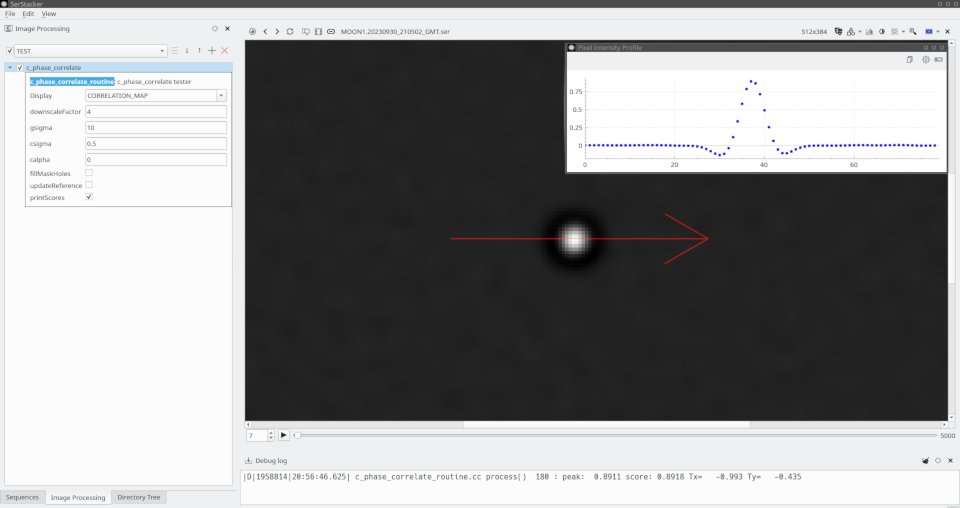
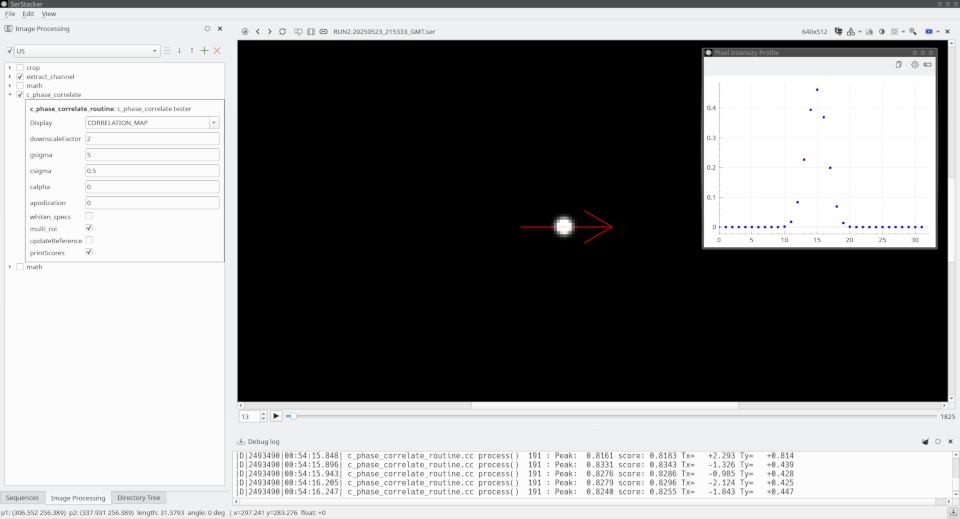
Update PHASE_CORRELATE.md

diff --git a/core/proc/image_registration/c_phase_correlate.cc b/core/proc/image_registration/c_phase_correlate.cc
@@ -497,7 +497,6 @@ double c_phase_correlate::compute(cv::Vec2f & outputTranslation)
   else {
     cv::Mat1f cSpec, cMap;
 
-
     for( size_t i = 0; i < 4; ++i ) {
 
       crossEnergyScale =
@@ -598,7 +597,7 @@ double c_phase_correlate::findSubpixelCentroid(const cv::Mat1f& correlationMap, 
     }
   }
   else {
-    const double threshold = z_center * 0.05f;
+    const double threshold = z_center * 0.02f;
     for (int dy = -R; dy <= R; ++dy) {
       const float * __restrict srcp = (const float *)(src_base + dy * stride);
       for (int dx = -R; dx <= R; ++dx) {

diff --git a/PHASE_CORRELATE.md b/PHASE_CORRELATE.md
@@ -2,90 +2,135 @@
 
 `#include <core/proc/image_registration/c_phase_correlate.h>`
 
-The `c_phase_correlate` is a high-performance C++ class designed for fast sub-pixel translation alignment of shifted video frames under strict execution budgets. It is tailored specifically for **Lucky Imaging Stacking** pipeline, where thousands of short-exposure frames must be evaluated, aligned, and filtered at **maximum FPS**.
+# c_phase_correlate
 
-The pipeline implements an end-to-end optimized frequency-domain phase correlation algorithm that operates directly on packed real-valued spectra, bypassing conventional overheads to maximize frame throughput.
+The **c_phase_correlate** class implements a subpixel image alignment pipeline using cross-correlation and
+ phase-correlation methods in the frequency domain. The algorithm is heavily optimized to minimize runtime 
+ memory allocations, leverage multi-threaded execution (via `cv::parallel_for`), and mitigate boundary artifacts
+ caused by ROI edges.
 
 ![PHASE_CORRELATE](./debug/PHASE_CORRELATE.png)
 
-## 🚀 Key Optimization Features for High-FPS Stacking
+---
 
-To handle high-frame-rate inputs without becoming a pipeline bottleneck, the class merges several mathematical operations into low-level execution passes:
+## Key Features & Core Functionality
 
-* **Zero-Cost Frequency Centering (`dftShift` Avoidance):** The spatial frequency sign-alternation factor \((-1)^{x+y}\) is pre-baked directly into the bandpass filter coefficients. This eliminates the CPU/cache overhead of traditional quadrant-swapping loops entirely.
-* **Direct Real-DFT Packed CCS Arithmetic:** All complex conjugation, phase whitening, and bandpass weightings are processed in place using OpenCV's native **Compact Complex Store (CCS)** format. This minimizes memory bandwidth footprints and allows the utilization of highly efficient real-output Inverse DFTs (`cv::DFT_REAL_OUTPUT`).
-* **Adaptive Feature Scale Tuning:** Uses an integrated Rayleigh-like Gaussian bandpass filter controlled by `gsigma`. This acts as the primary "tuning knob" to give higher priority to specific structural texture scales of the target (e.g., planetary details, lunar craters, or stellar cores) while instantly discarding low-frequency atmospheric gradient shifts and high-frequency sensor noise.
-* **Downscaled Even-Grid Topology:** Enforces downscaled, strictly even-dimensioned workspace dimensions (`_fftSize`). This maintains perfect frequency-domain mirror symmetry for the baked filter while shrinking the FFT computational canvas to match the required processing resolution.
-* **Arbitrary Visibility Masking:** Supports pixel-level current and reference masks with built-in inverse cross-filter deconvolution (`csigma`, `calpha`) to seamlessly mitigate spectral leakage and edge artifacts caused by irregular ROI boundaries.
+The class estimates the precise 2D translation vector (dx, dy) between a Reference and a Current frame.
+
+* **Packed Spectrum Optimization (CCS):** All frequency-domain operations are performed directly on OpenCV's packed CCS
+ (Complex Conjugate Symmetrical) format for real-valued `CV_32FC1` matrices. This eliminates the memory and performance
+ overhead of handling full complex `CV_32FC2` allocations.
+ 
+ 
+* **Boundary Artifact Mitigation (Periodic + Smooth Decomposition):** The forward Discrete Fourier Transform (DFT) is computed via Moizan's PPS Decomposition (`fftPPSDecompositionCCS`). The input image is decomposed into periodic (P) and smooth (S) components. This suppresses cross-shaped boundary tearing artifacts without blurring or altering the informative high-frequency texture within the frame.
 
 
-## 📐 Grid Topology & FFT Size Constraints
+* **Optional Spectral Leakage Regularization (Inverse Cross-Filter):** To compensate for the "ray" artifacts induced by the rectangular boundaries of the input ROI, an inverse frequency-domain cross-filter matrix embedded with Tikhonov regularization is evaluated (`fftGenerateInverseCrossFilter`).
 
-A critical architectural feature of the pipeline is its strict enforcement of **even-dimensioned frequency grids** during the initial setup phase. The `setup` method configures the pipeline layout and computes the optimal workspace processing size `_fftSize` via custom constraint logic.
 
-### 🧩 Downscaled FFT Size Optimization Logic
-
-Standard hardware acceleration for Discrete Fourier Transforms relies on specific matrix padding up to the next optimal composite number (using `cv::getOptimalDFTSize`). However, to maintain boundary safety under downscaling constraints, this pipeline employs a downward-search strategy (`getOptimalFFTSizeDown`):
-
-1. **Downscaling Boundary Protection:** Instead of padding the image *upward* (which could introduce artificial border artifacts or exceed expected limits), the system rounds down to the nearest optimal transform size that remains smaller than or equal to the downscaled frame size.
-2. **Strict Parity Enforcement (Even Dimensions):** The optimization loop guarantees that both the width and height of the computed `_fftSize` are **strictly even numbers** (`sopt & 0x1 == 0`), establishing a minimum fallback size of \(4 \times 4\) pixels.
-
-### ⚖ The Mathematical Necessity of Even Discretization
-
-Enforcing even spatial dimensions is mathematically mandatory due to the optimization tricks utilized in the pipeline core:
-
-* **Symmetry of the Baked Sign-Alternation:** Because the quadrant-shifting factor \((-1)^{x+y}\) is embedded directly into the `_bandpassFilter`, the coordinate system requires perfect mirror symmetry across the Nyquist boundaries. An odd dimension would shift the phase center by a fractional pixel relative to the array grid, rendering the bandpass filter non-symmetrical.
-* **CCS Boundary Safety:** The packed Real-DFT **Compact Complex Store** (CCS) format expects exact Nyquist frequencies to fall squarely onto the last row and column boundaries when the dimensions are even. Even grid sizing prevents frequency misalignment and phase artifacts when performing arithmetic cross-multiplication directly inside the packed memory space.
-
-## 🎯 Frequency Bandpass Filter Generation & Feature Tuning
-
-The `generateBandpassFilter` method pre-calculates the frequency-domain weighting matrix (`_bandpassFilter`). This component acts as the **primary tuning knob** of the alignment pipeline, allowing the system to isolate and prioritize specific spatial feature scales (textures, patterns, or boundaries) while suppressing unwanted noise and illumination artifacts.
-
-### 📐 Mathematical Formulation & Feature Isolation
-
-When a valid feature scale is specified (`_gsigma > 0`), the function populates a 2D grid mapped to the `_fftSize` canvas using a Rayleigh-like frequency distribution curve:
-
-\[H(u, v) = (-1)^{x+y} \cdot \rho^2 \cdot e^{-0.5 \cdot \rho^2}\]
-
-Where the normalized radial frequency metric \(\rho^2\) is derived from the spatial coordinate frequencies \((u, v)\) scaled by the target texture characteristic size:
-
-\[\rho^2 = (u^2 + v^2) \cdot \left( \frac{\pi^2 \cdot \sigma_{\text{target}}^2}{2} \right)\]
-
-* **Bandpass Behavior:** The \(\rho^2 \cdot e^{-0.5 \cdot \rho^2}\) profile effectively shapes a zero-DC bandpass filter. It inherently cuts off the constant global illumination component (DC at \(\rho=0\)) and acts as a smooth low-pass roll-off to eliminate high-frequency pixel jitter and sensor noise.
-* **Feature Scale Selection:** Adjusting `gsigma` shifts the peak frequency response. This allows the pipeline to selectively lock onto structural textures of a specific pixel size while ignoring large-scale gradient drifts or sub-pixel micro-noise.
+* **Multi-ROI Operation Mode:** Supports partitioning the frame into 4 independent spatial quadrants (patches). The pipeline extracts separate spectra for each patch and performs non-linear accumulation into a single cumulative correlation map (`updateMultiROICorrelationMap`).
 
 ---
 
-### ⚡ Integrated Optimization Vectors
+## Pipeline & Filtering Methods
 
-To ensure maximum frames-per-second (FPS), three heavy processing steps are combined into a single, cache-localized data-generation pass:
+### 1. Data Packaging & Filter Generation (`generateFilters`, `setupInputImage`)
 
-1. **Zero-Cost Spectrum Centering:** The spatial frequency sign alternation factor `((x + y) & 1) ? -1 : 1` is multiplied directly into the filter coefficients. This mathematical transformation pre-shifts the coordinate origin, completely bypassing the performance overhead of an explicit `cv::dftShift` quadrant swap loop after the inverse transform.
-2. **Mask-Edge Deconvolution:** If mask compensation parameters are active (`_csigma > 0` and `_calpha > 0`), the pipeline embeds an inverse cross-filter matrix directly into the weights via pixel-wise multiplication (`cv::multiply`). This neutralizes spectral leakage caused by sharp geometric boundaries of arbitrary visibility masks without requiring spatial-domain apodization windows.
-3. **L1 Normalization:** The final matrix is fully normalized using the L1 norm (`cv::NORM_L1`), ensuring that energy distribution remains consistent across varying frame dimensions and scaling adjustments.
+* **Downscaling & Layout Alignment:**
+	Input frames and optional masks are downscaled by `downscale_factor`. The target FFT grid dimension is forced to be even and rounded down to the optimal DFT size via `getOptimalFFTSizeDown()` (or `getOptimalFFTSizeDownDiv4()` for Multi-ROI) to maintain perfect symmetry for the packed CCS layout.
 
 
-## 🎯 Subpixel Peak Localization & Overlap-Compensated Scoring
+* **Frequency Bandpass Filter:**
+	When `_gsigma > 0`, the class evaluates a 2D Rayleigh-like distribution curve in the frequency domain 
+	to isolate target textures. For each frequency coordinate (u, v) The transfer function of the filter is modeled as:
+	`F(u, v) = rho2 * exp(-rho2)`. The square of the frequency radius is computed as `rho2 = (u^2 + v^2) * (ilambda^2)`.
+	The characteristic frequency scale is defined as `ilambda = _gsigma / 0.283`.
 
-Once the `cv::idft` yields the real-valued `_correlationMap`, the pipeline extracts the final displacement vector and computes a normalized quality score. This stage handles atmospheric degradation effects and translation scaling.
+ 
+* **Bandpass Behavior:**
+ 	The bandpass filter profile effectively shapes a zero-DC bandpass filter. 
+	It inherently cuts off the constant global illumination component (DC at rho=0) and acts as a smooth low-pass 
+	roll-off to eliminate high-frequency pixel jitter and sensor noise. Adjusting `gsigma` shifts the peak frequency response. 
+	This allows the pipeline to selectively lock onto structural textures of a specific pixel size while ignoring 
+	large-scale gradient drifts or sub-pixel micro-noise.
 
-### 🔬 Non-Linear 5x5 Centroid Matrix with Pixel-Locking Prevention
 
-The `findSubpixelCentroid` method localizes the translation vector with high subpixel accuracy. Atmospheric turbulence often warps the correlation peak, splitting or flattening its energy distribution. Standard quadratic or parabolic fittings fail in these conditions. The pipeline uses an advanced center-of-mass approach inside a \(5 \times 5\) spatial window (\(R=2\)):
+* **Embedded FFT-Shift:**
+	The Rayleigh-like bandpass filter (controlled by `_gsigma`) is generated directly in the frequency domain with an embedded spatial chessboard sign-alternation: `sign(x, y) = ((x + y) & 1) ? -1.0 : 1.0`. This mathematical trick inherently shifts the zero-frequency (DC) component to the center of the spectrum, completely bypassing the runtime overhead of an explicit `fftShift` loop over the image matrices.
 
-1. **Adaptive Sidelobe Thresholding:** A dynamic floor is set at 20% of the discrete global maximum (\(z_{\text{center}}\)):
-   \[\text{threshold} = 0.20 \cdot z_{\text{center}}\]
-   This removes the ripple artifacts and secondary sidelobes generated by the bandpass filter, isolating the core peak structure.
-2. **Cubic Weighting Scheme:** For all points within the neighborhood where the correlation intensity exceeds the threshold, a non-linear weight factor \(w\) is evaluated:
-   \[w = (\text{val} - \text{threshold})^3\]
-   This cubic profile penalizes low-amplitude noise while heavily prioritizing the apex geometry. It eliminates **pixel-locking effects** (the systematic error where computed subpixel coordinates drift towards integer grids) and ensures stability when handling split peaks caused by seeing conditions.
-3. **Scale and Offset Restoration:** The computed subpixel displacement is centered back relative to the frequency origin (`_fftSize / 2`), adjusted for region-of-interest crop offsets (`_referenceCropOffset`, `_currentCropOffset`), and scale-multiplied by `_downscale_factor` to return the absolute physical translation vector in unscaled pixel units.
+
+* **Cross-like artifacts suppression L1-Norm Normalization:**
+	If `_csigma > 0` and `_calpha > 0`, a 2D cross-shaped frequency weight matrix with Tikhonov regularization 
+	is evaluated via `fftGenerateInverseCrossFilter()` and multiplied with the bandpass filter to suppress rectangular
+	ROI edge-leakage artifacts. The final filter matrix is normalized using the L1-norm (sum of absolute values equals 1.0).
+	As a result, the autocorrelation peak value for a perfect match evaluated on an unscaled `cv::idft` equals exactly 1.0.
 
 ---
 
-### 🛡 Dynamic Overlap Compensation Metric
+### 2. Frequency-Domain Alignment (`compute`)
 
-A major flaw of raw phase correlation is that the peak height (`_peakValue`) naturally drops as the translation vector increases, simply because the overlapping area between the two frames shrinks. To evaluate frame alignment quality fairly during *Lucky Imaging* filtering, the final `_correlationScore` applies an explicit geometric compensation:
+Depending on the `whiten_specs` configuration flag, the cross-spectrum is processed through one of two execution paths:
+
+* **Pure Phase Correlation (whiten_specs = true):**
+Spectrum amplitudes are entirely whitened (normalized to 1.0), extracting only the phase difference between the current (S1) and reference (S2) fields:
+`DST = filter * (S1 * S2*) / |S1 * S2*|`
+
+
+* **Weighted Cross-Correlation (whiten_specs = false):**
+The mutual spectrum preserves the cross-energy distribution of the amplitudes and scales the resulting map by the inverse square root of total cross-energy:
+`DST = filter * (S1 * S2*) * (1.0 / sqrt(E_cross))`
+
+---
+
+### 3. Subpixel Centroid Analysis (`findSubpixelCentroid`)
+
+* **Discrete Peak Search:**
+The global integer-level maximum (x0, y0) is located on the real-valued cross-correlation map produced by the inverse DFT.
+
+
+* **Cross-correlatiopn spot window sizing:**
+The neighborhood radius R used to analyze the peak's center of mass is adapted based on `_gsigma` parameter 
+and the correlation mode:
+- If `whiten_specs == true`: `R = int(_gsigma) + 1`
+- If `whiten_specs == false`: `R = int(2 * _gsigma) + 1`
+- If `_gsigma <= 0`: `R = 2` (fallback minimal radius)
+
+
+* **Anti-Pixel-Locking Weighting:**
+To eliminate pixel-locking bias (systematic errors towards integer coordinates) and filter out residual bandpass sidelobes,
+an adaptive intensity threshold is applied (10% of peak intensity for Single-ROI, 2% for Multi-ROI) combined with a 
+non-linear weighting scheme:
+- For Single-ROI: `W(x,y) = (I(x,y) - threshold)^3` (if I > threshold, else 0)
+- For Multi-ROI: `W(x,y) = (I(x,y) - threshold)` (if I > threshold, else 0)
+
+The refined subpixel peak position is then calculated as:
+`Refined_X = x0 + sum(dx * W) / sum(W)`
+`Refined_Y = y0 + sum(dy * W) / sum(W)`
+
+---
+
+## Key API Reference
+
+### Configuration & Lifetime
+* `bool setup(const cv::Size & expectedFrameSize, c_phase_correlate_options & opts)`  
+  Calculates the optimal FFT grid dimensions taking into account the downscale factor and Multi-ROI settings. Allocates and pre-generates frequency-domain filtering matrices.
+  
+### Input Data Ingestion
+* `bool setReferenceImage(cv::InputArray referenceImage, cv::InputArray referenceMask)`  
+  Ingests, resizes, and packs the reference frame and its optional mask. Applies a Tukey apodization window (if configured) and extracts the single CCS spectrum (or 4 sub-spectra in Multi-ROI mode).
+  
+* `bool setCurrentImage(cv::InputArray currentImage, cv::InputArray currentMask)`  
+  Performs identical processing steps on the current/moving target frame to extract its corresponding frequency spectra.
+
+### Execution & Metrics
+* `double compute(cv::Vec2f & outputTranslation)`  
+  Executes the cross-spectrum evaluation, computes the IDFT, runs the subpixel peak interpolation, and projects the translation vector back into the pixel coordinate system of the original unscaled frame (accounting for crop offsets and downsampling). Returns an overlap-compensated alignment quality score (PSR-like metric).
+  
+* `double correlationScore() const`  
+  Returns the quality score of the match, normalized against the estimated window overlap area.
+  
+* `double peakValue() const`  
+  Returns the absolute intensity value of the primary correlation peak.
 
 ### 🛡 Dynamic Overlap Compensation Metric
 
@@ -115,8 +160,9 @@ The `c_phase_correlate` architecture exposes internal cache matrices to simplify
 
 ### ⚙ Configuration Parameters (`c_phase_correlate_options`)
 
-* `downscale_factor` (Default: `4.0`): Controls workspace canvas size reduction. Higher values exponentially boost execution speed but limit structural texture definition.
-* `gsigma` (Default: `10.0` [px]): Sets the target feature spatial wavelength. Tunes the internal bandpass filter to lock onto specific details (e.g., craters, star cores) while discarding high-frequency sensor noise.
+* `downscale_factor` (Default: `4.0`): Controls workspace canvas size reduction. Higher values boost execution speed 
+and suppress high-frequency pixel noise, but limit structural texture definition.
+* `gsigma` (Default: `5.0` [px]): Controls the radius of cross-correlation spot in cross-correlation map.
 * `csigma` (Default: `0.5`): Specifies the blur size for inverse cross-filter mask boundary deconvolution.
 * `calpha` (Default: `0.0`): Defines regularization stiffness. Prevents division-by-zero explosions on sharp visibility mask edges.
 
@@ -146,9 +192,6 @@ bool c_phase_correlate_routine::process(cv::InputOutputArray image, cv::InputOut
   }
   if (!setCurrentImage(image, mask)) return false;
 
-  // 3. Fire the Core High-FPS Pipeline
-  pc.setCurrentImage(_currentImage, _currentMask);
-  
   cv::Vec2f Translation;
   const double score = pc.compute(Translation);
   
